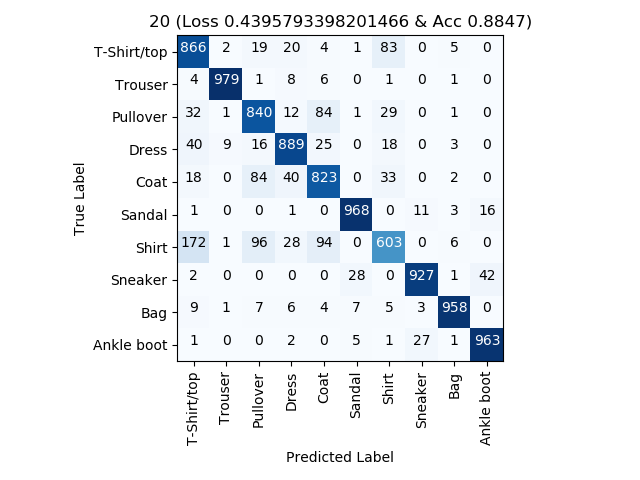
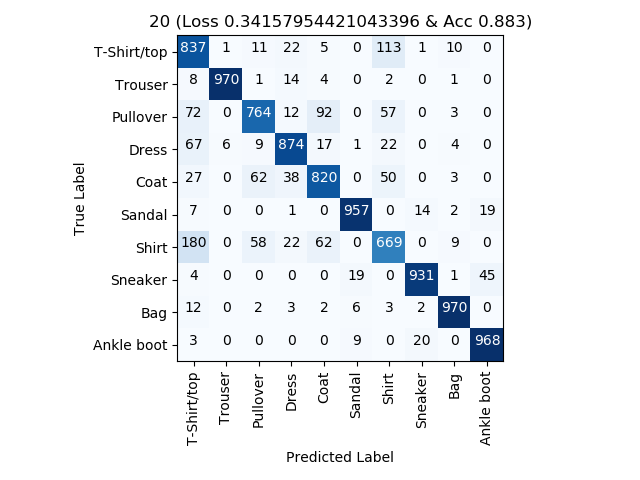
Updating parameters & adding neural data

diff --git a/params.py b/params.py
@@ -13,16 +13,18 @@ def standard():
     params['conv_filters'] = 32
     params['nb_pool'] = 2
     params['nb_conv'] = 2
-    params['optimizer'] = 'nadam'
+    # params['optimizer'] = 'nadam'  # Used for CNN
+    params['optimizer'] = 'adam'  # Used for Neural
     params['loss'] = 'categorical_crossentropy'
 
     # Fit Parameters
-    params['epoch'] = 12
+    params['epoch'] = 8
     params['dropout'] = 0.1
     params['batch_size'] = 128
 
     # Dense Activation
     params['dense_1'] = 120
-    params['activate_1'] = 'relu'
+    # params['activate_1'] = 'relu'  # Used for CNN
+    params['activate_1'] = 'sigmoid'  # Used for Neural
     return params
     
